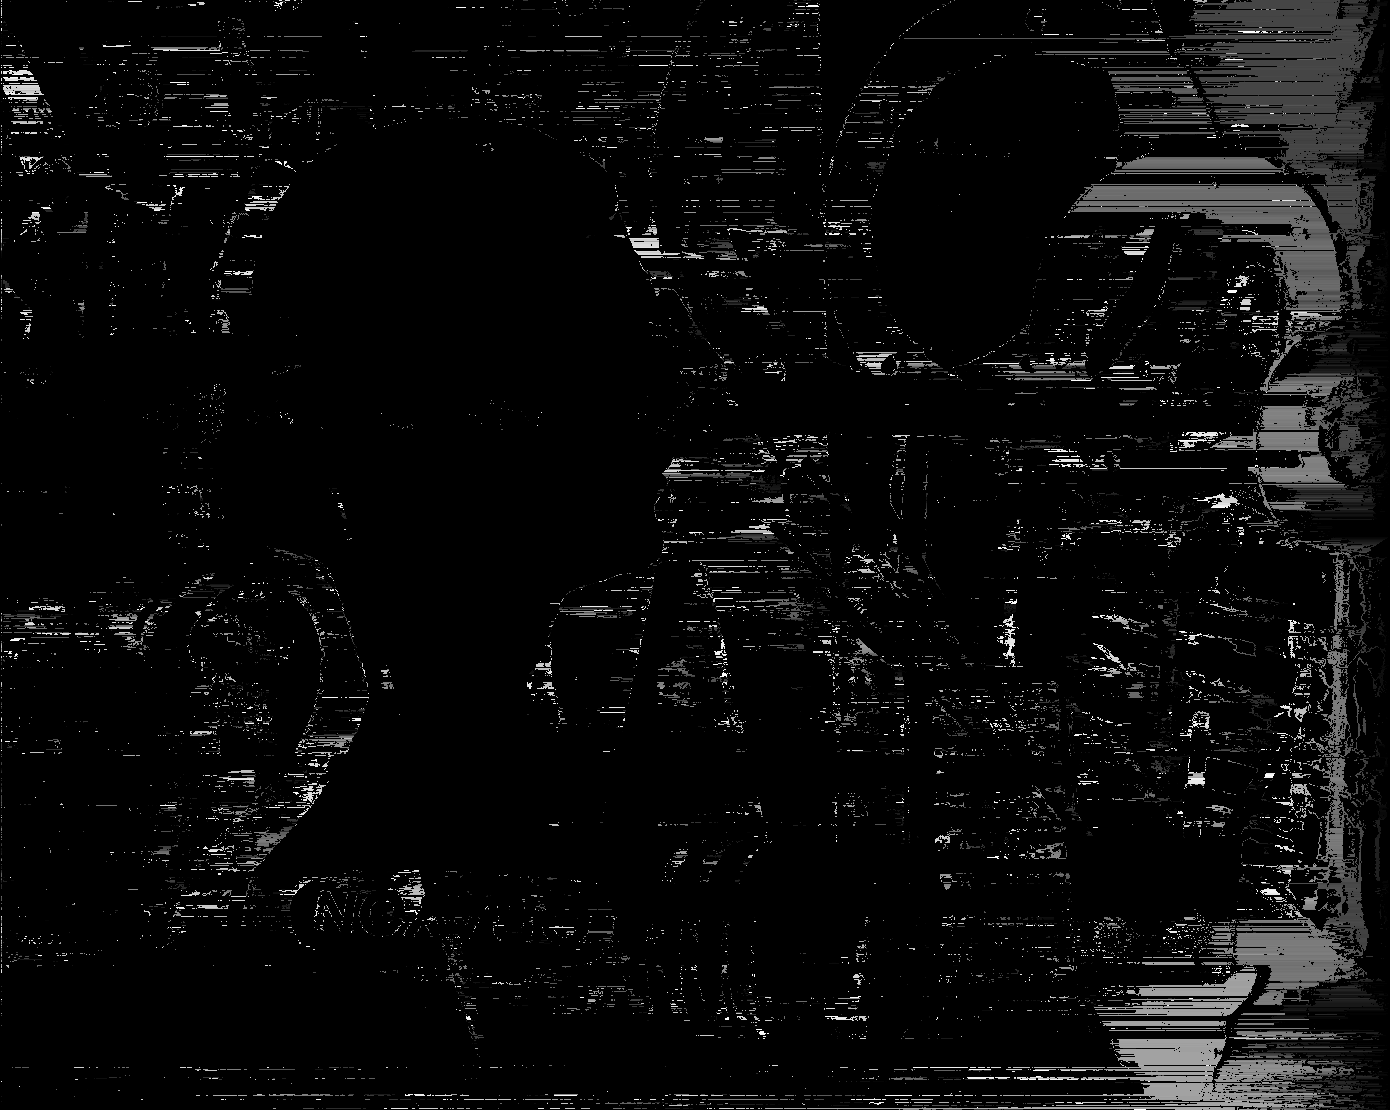
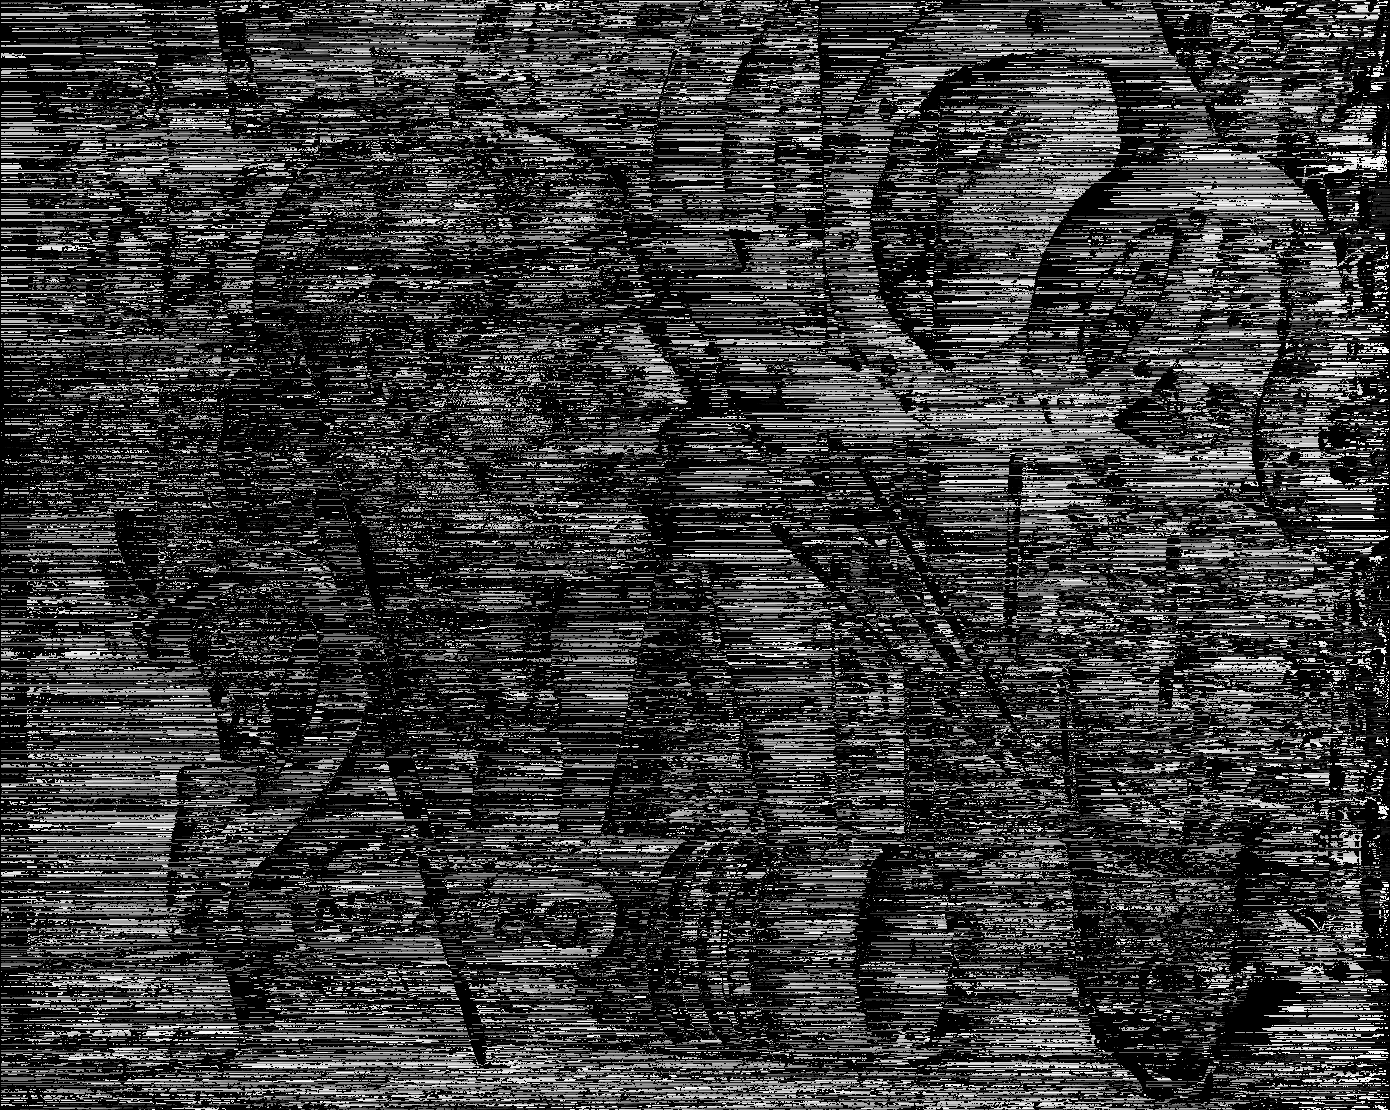
missing cost function update

diff --git a/src/main.cpp b/src/main.cpp
@@ -60,7 +60,6 @@ int main(int argc, char** argv) {
 
     int height = image1.size().height;
     int width = image1.size().width;
-
     ////////////////////
     // Reconstruction //
     ////////////////////
@@ -71,12 +70,14 @@ int main(int argc, char** argv) {
     // DP disparity image
     cv::Mat dp_disparities = cv::Mat::zeros(height, width, CV_8UC1);
     int lambda = 10;
+
     StereoEstimation_DP(
         height,
         width,
         lambda,
         image1, image2,
         dp_disparities, scale);
+
     // save / display images
     std::stringstream out2;
     out2 << output_file << ".png";
@@ -91,9 +92,9 @@ int main(int argc, char** argv) {
         image1, image2,
         naive_disparities, scale);
 
-    //////////
-    //Output//
-    //////////
+    ////////////
+    // Output //
+    ////////////
 
     // reconstruction
     Disparity2PointCloud(
@@ -101,7 +102,7 @@ int main(int argc, char** argv) {
         height, width, naive_disparities,
         window_size, dmin, baseline, focal_length);
 
-    // save / display images
+    // save and display images
     std::stringstream out1;
     out1 << output_file << "_naive.png";
     cv::imwrite(out1.str(), naive_disparities);
@@ -127,11 +128,14 @@ void StereoEstimation_DP(
             << "Calculating disparities for the DP approach... "
             << std::ceil((sor / static_cast<double> (height)) * 100) << "%\r"
             << std::flush;
+
         for (int i = 1; i < width; ++i) {
-            C.at<uchar>(i, 1) = C.at<uchar>(i - 1, 1) + lambda;
+            C.at<uchar>(i, 1) = C.at<uchar>(i - 1, 1) + lambda; // maybe i*occlusion?
+            M.at<uchar>(i, 1) = 3; // right occlusion
         }
         for (int j = 1; j < width; ++j) {
             C.at<uchar>(1, j) += lambda;
+            M.at<uchar>(1, j) = 2; // left occlusion
         }
 
         for (int i = 1; i < width; ++i) {
@@ -139,13 +143,15 @@ void StereoEstimation_DP(
                 int val = image1.at<uchar>(sor, i) - image2.at<uchar>(sor, j);
                 int dissim = val * val;
                 int min1 = C.at<uchar>(i - 1, j - 1) + dissim;
-                int min2 = C.at<uchar>(i - 1, j) + lambda;
-                int min3 = C.at<uchar>(i, j - 1) + lambda;
+                int min2 = C.at<uchar>(i - 1, j) + lambda; // left occlusion
+                int min3 = C.at<uchar>(i, j - 1) + lambda; // right occlusion
                 int min = std::min({ min1, min2, min3 });
+                C.at<uchar>(i, j) = min; // Update the cost matrix
 
                 if (min == min1) M.at<uchar>(i, j) = 1;
-                else if (min == min2) M.at<uchar>(i, j) = 2;
-                else if (min == min3) M.at<uchar>(i, j) = 3;
+                else if (min == min2) M.at<uchar>(i, j) = 2;  // left occlusion
+                else if (min == min3) M.at<uchar>(i, j) = 3;  // right occlusion
+
             }
         }
 
@@ -153,17 +159,17 @@ void StereoEstimation_DP(
         int index_j = width - 1;
         while (index_i > 0 && index_j > 0) {
             if (M.at<uchar>(index_i, index_j) == 1) {
-                dp_disparities.at<uchar>(sor, index_j) = std::abs(index_i - index_j) * scale;
+                dp_disparities.at<uchar>(sor, index_j) = std::abs(index_j - index_i) * scale;
                 index_i--;
                 index_j--;
             }
             if (M.at<uchar>(index_i, index_j) == 2) {
-
-                index_j--;
+                index_i--;  // left occlusion
+                dp_disparities.at<uchar>(sor, index_j) = 0;
             }
             if (M.at<uchar>(index_i, index_j) == 3) {
                 dp_disparities.at<uchar>(sor, index_j) = 0;
-                index_i--;
+                index_j--;  // right occlusion
             }
         }
     }
